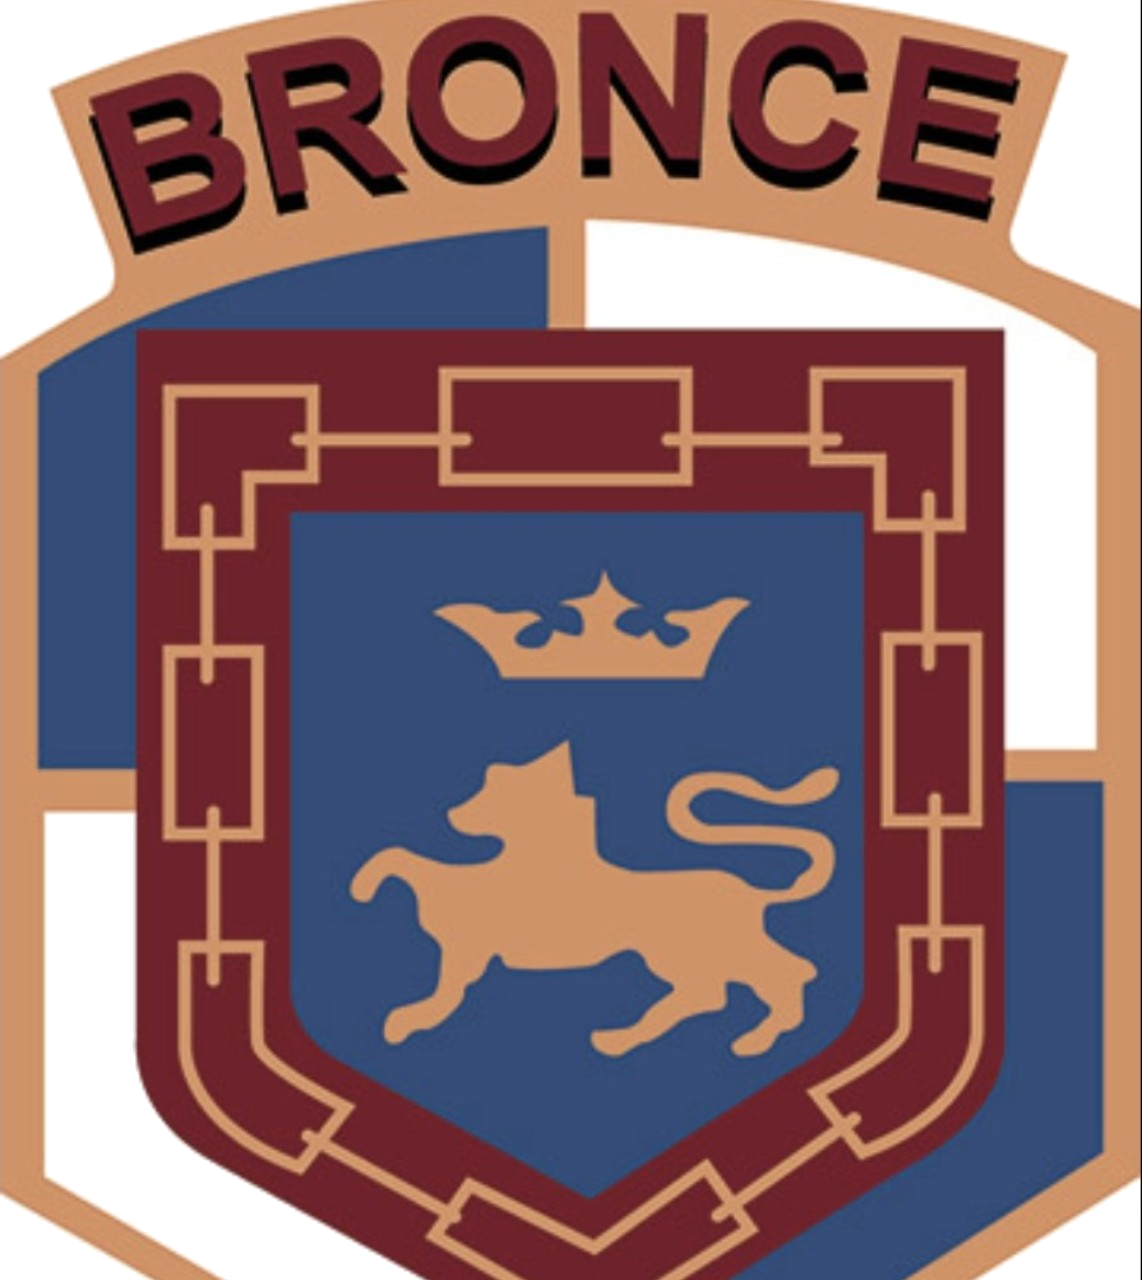
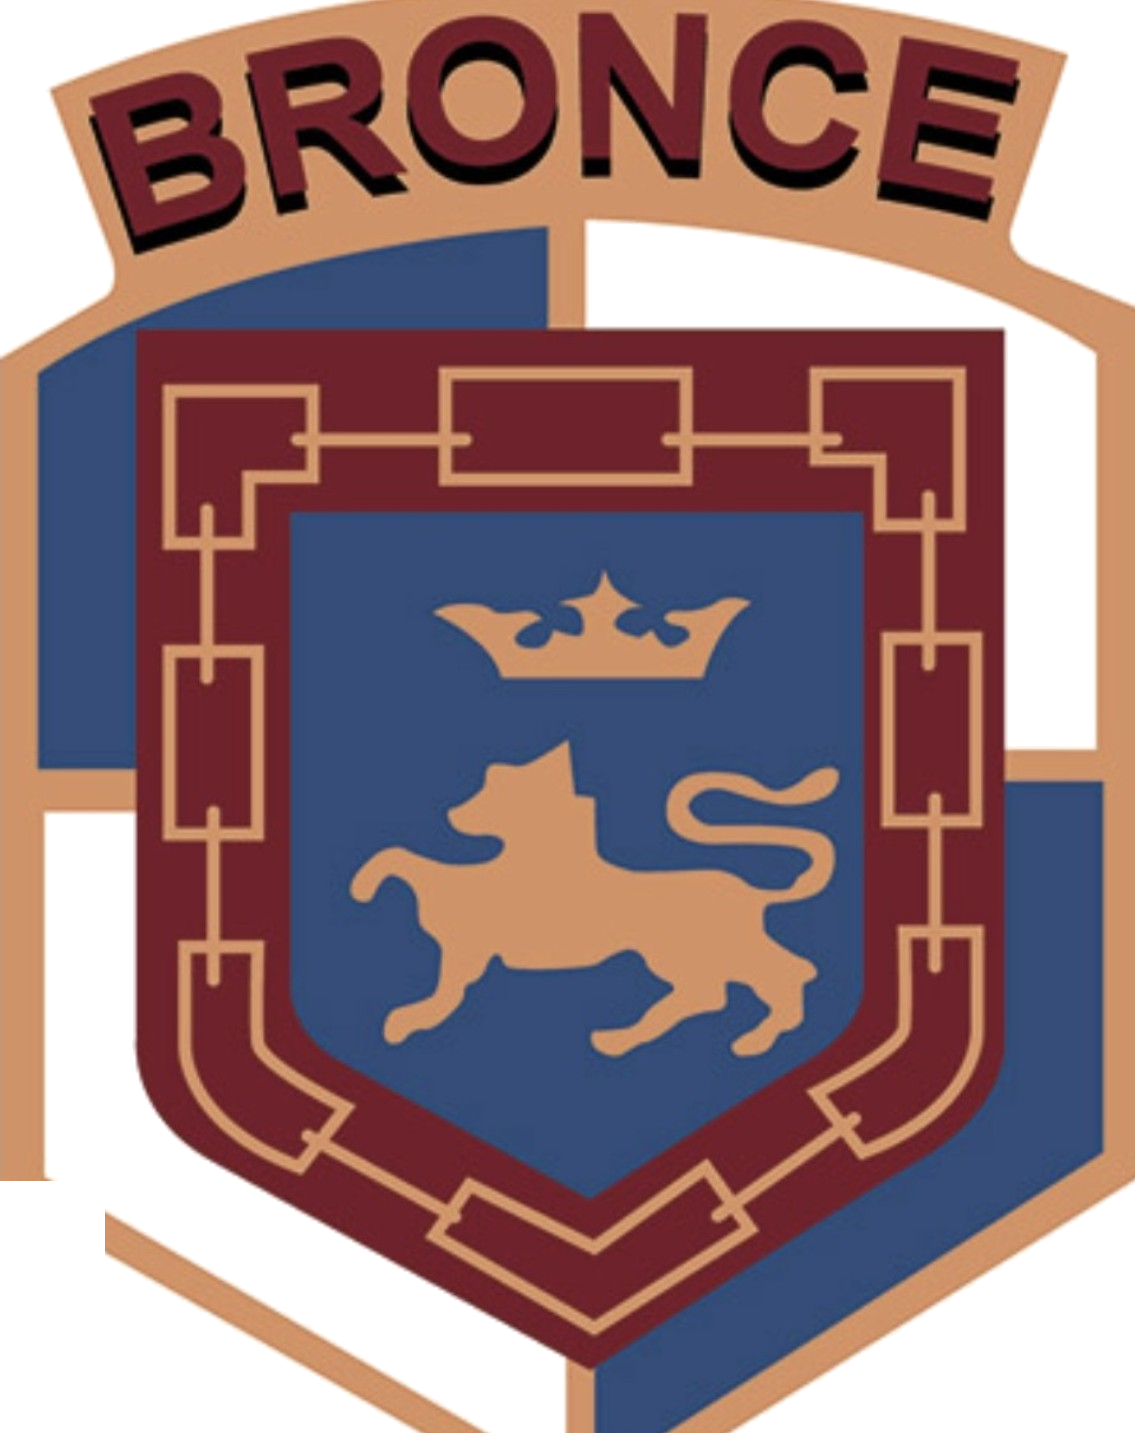
Add files via upload

diff --git a/sw.js b/sw.js
@@ -1,10 +1,24 @@
-const CACHE='andanada12-v12-1-20260630';
-self.addEventListener('install',e=>{self.skipWaiting();e.waitUntil(caches.open(CACHE).then(c=>c.addAll(['./','./index.html','./manifest.json','./assets/emoticono.jpg','./assets/escudo-bronce-solo.png']).catch(()=>{})))});
-self.addEventListener('activate',e=>{e.waitUntil(caches.keys().then(keys=>Promise.all(keys.filter(k=>k!==CACHE).map(k=>caches.delete(k)))));self.clients.claim()});
-self.addEventListener('fetch',e=>{
-  const req=e.request;
-  if(req.method!=='GET')return;
-  const url=new URL(req.url);
-  if(url.hostname.includes('docs.google.com')){e.respondWith(fetch(req,{cache:'no-store'}).catch(()=>new Response('',{status:503})));return}
-  e.respondWith(fetch(req,{cache:'no-store'}).then(res=>{const copy=res.clone();caches.open(CACHE).then(c=>c.put(req,copy));return res}).catch(()=>caches.match(req).then(r=>r||caches.match('./index.html'))));
+const CACHE_NAME = 'andanada12-v14';
+const ASSETS = [
+  './', './index.html', './manifest.json',
+  './assets/icon-192.png', './assets/icon-512.png',
+  './assets/icon-maskable-192.png', './assets/icon-maskable-512.png',
+  './assets/favicon-32.png', './assets/favicon-16.png', './assets/apple-touch-icon.png',
+  './assets/escudo-bronce-fiel.png', './assets/emoticono.jpg', './assets/emoticono.png'
+];
+self.addEventListener('install', event => {
+  self.skipWaiting();
+  event.waitUntil(caches.open(CACHE_NAME).then(cache => cache.addAll(ASSETS).catch(()=>{})));
+});
+self.addEventListener('activate', event => {
+  event.waitUntil(caches.keys().then(keys => Promise.all(keys.filter(k => k !== CACHE_NAME).map(k => caches.delete(k)))).then(() => self.clients.claim()));
+});
+self.addEventListener('fetch', event => {
+  const req = event.request;
+  if (req.method !== 'GET') return;
+  if (req.mode === 'navigate' || (req.headers.get('accept') || '').includes('text/html')) {
+    event.respondWith(fetch(req).then(res => { const copy=res.clone(); caches.open(CACHE_NAME).then(c=>c.put(req,copy)); return res; }).catch(()=>caches.match(req).then(r=>r || caches.match('./index.html'))));
+    return;
+  }
+  event.respondWith(caches.match(req).then(cached => cached || fetch(req).then(res => { const copy=res.clone(); caches.open(CACHE_NAME).then(c=>c.put(req,copy)); return res; }).catch(()=>cached)));
 });

diff --git a/index.html b/index.html
@@ -3,9 +3,12 @@
 <head>
 <meta charset="utf-8" />
 <meta name="viewport" content="width=device-width, initial-scale=1, viewport-fit=cover" />
-<title>Andanada 12 · V13.3</title>
+<title>Andanada 12 · V14</title>
 <meta name="theme-color" content="#0b4ea2" />
 <link rel="manifest" href="manifest.json" />
+<link rel="icon" type="image/png" sizes="32x32" href="assets/favicon-32.png" />
+<link rel="icon" type="image/png" sizes="16x16" href="assets/favicon-16.png" />
+<link rel="apple-touch-icon" href="assets/apple-touch-icon.png" />
 <style>
 :root{
   --red:#d71920;--redDark:#b71218;--blue:#0b4ea2;--blueDark:#08366f;--ink:#101828;--muted:#667085;--bg:#f6f8fc;--card:#fff;--line:#e5e7ef;--amber:#ffb703;--green:#12b76a;--shadow:0 12px 34px rgba(16,24,40,.10)
@@ -25,7 +28,7 @@
   <div class="checks"></div>
   <div class="header">
     <div class="brandMark"><img class="smileImg" src="assets/emoticono.jpg" alt="Homenaje" /></div>
-    <div class="title"><h1>ANDANADA 12</h1><p>San Fermín · <span class="v">V13.3</span></p><div class="motto">Quiera el cielo que todos vivamos divirtiéndonos como marranos, pero por muchísimo tiempo, como una gran pandilla de hermanos</div></div>
+    <div class="title"><h1>ANDANADA 12</h1><p>San Fermín · <span class="v">V14</span></p><div class="motto">Quiera el cielo que todos vivamos divirtiéndonos como marranos, pero por muchísimo tiempo, como una gran pandilla de hermanos</div></div>
     <div class="headerActions"><img class="crestImg" src="assets/escudo-bronce-fiel.png" alt="Escudo Bronce" /><button class="refresh" id="refreshBtn">Actualizar</button></div>
   </div>
   <div class="searchRow"><input id="search" class="search" placeholder="Buscar evento, aviso, comida..." /><div class="stamp" id="stamp">Sin actualizar</div></div>
@@ -114,7 +117,7 @@ function fotosView(){const rows=photoRows();return `<h2 class="section-title">Fo
 function ultimaHoraView(){const rows=urgentRows();return `<h2 class="section-title">🚨 Última Hora</h2>${rows.length?rows.map(r=>card(r)).join(''):'<div class="empty">Para activar un mensaje urgente, añade una fila con categoría ULTIMA HORA.</div>'}`}
 function momenticosView(){const rows=momentRows();return `<h2 class="section-title">✨ Momenticos</h2>${rows.length?rows.map(r=>card(r,'moment')).join(''):'<div class="empty">Categoría: MOMENTICO.</div>'}`}
 function utilidadesView(){const util=[['🍻','Dónde está la Peña','PENA'],['🚌','Villavesas','VILLAVESA'],['🚕','Taxis Pamplona','TAXI'],['🅿️','Parkings','PARKING'],['🚑','Emergencias','EMERGENCIA']];return `<h2 class="section-title">Utilidades</h2>${cuadrillaButton()}<div class="grid"><button class="quick" onclick="abrirMiUbicacion()"><span>📡</span>Mi ubicación ahora</button>${util.map(([ic,txt,key])=>{const r=data.find(x=>norm(cat(x)+' '+title(x)).includes(norm(key)));const url=r&&mapsUrl(r);return url?`<button class="quick" onclick="openMapUrl('${encodeURIComponent(cleanUrl(url))}')"><span>${ic}</span>${txt}</button>`:`<button class="quick" onclick="alert('Añade una fila de categoría ${key} con ENLACE o UBICACION')"><span>${ic}</span>${txt}</button>`}).join('')}</div><div class="card"><p class="desc"><b>¿Dónde está la cuadrilla?</b> se lee desde la hoja <b>CUADRILLA</b>: ACTIVO | LUGAR | MAPS | ACTUALIZADO POR | HORA.</p></div>`}
-function datosView(){return `<h2 class="section-title">Datos</h2><div class="card"><p class="desc"><b>Filas cargadas:</b> ${data.length}<br><b>Ubicación cuadrilla:</b> ${cuadrillaStatus}${cuadrilla.length?' · '+cuadrilla.length+' fila(s)':''}<br><b>Última actualización:</b> ${lastUpdate?lastUpdate.toLocaleTimeString('es-ES',{hour:'2-digit',minute:'2-digit'}):'No actualizada'}<br><b>Hoja:</b> Google Sheets · Andanada 12</p><button class="miniBtn" onclick="loadData(true)">Actualizar datos</button></div><h2 class="section-title">Configuración V13.3</h2><div class="card"><p class="desc"><b>ULTIMA HORA</b> · aparece como banner rojo arriba aunque no entres en la pestaña.<br><b>CUADRILLA</b> · hoja nueva para el botón ¿Dónde está la cuadrilla?.<br><b>MOMENTICO</b> · aparece en Momenticos.<br><b>UBICACION / LUGAR</b> · ahora activa botón de Google Maps aunque escribas una dirección o nombre de sitio.</p></div><pre class="debug">Columnas Hoja1:\nDIA | CATEGORIA | HORA | TITULO | SUBTITULO | INFORMACION (columna F) | DESCRIPCION | UBICACION | ENLACE | IMAGEN\n\nHoja CUADRILLA:\nACTIVO | LUGAR | MAPS | ACTUALIZADO POR | HORA</pre>`}
+function datosView(){return `<h2 class="section-title">Datos</h2><div class="card"><p class="desc"><b>Filas cargadas:</b> ${data.length}<br><b>Ubicación cuadrilla:</b> ${cuadrillaStatus}${cuadrilla.length?' · '+cuadrilla.length+' fila(s)':''}<br><b>Última actualización:</b> ${lastUpdate?lastUpdate.toLocaleTimeString('es-ES',{hour:'2-digit',minute:'2-digit'}):'No actualizada'}<br><b>Hoja:</b> Google Sheets · Andanada 12</p><button class="miniBtn" onclick="loadData(true)">Actualizar datos</button></div><h2 class="section-title">Configuración V14</h2><div class="card"><p class="desc"><b>ULTIMA HORA</b> · aparece como banner rojo arriba aunque no entres en la pestaña.<br><b>CUADRILLA</b> · hoja nueva para el botón ¿Dónde está la cuadrilla?.<br><b>MOMENTICO</b> · aparece en Momenticos.<br><b>UBICACION / LUGAR</b> · ahora activa botón de Google Maps aunque escribas una dirección o nombre de sitio.</p></div><pre class="debug">Columnas Hoja1:\nDIA | CATEGORIA | HORA | TITULO | SUBTITULO | INFORMACION (columna F) | DESCRIPCION | UBICACION | ENLACE | IMAGEN\n\nHoja CUADRILLA:\nACTIVO | LUGAR | MAPS | ACTUALIZADO POR | HORA</pre>`}
 function render(){applySearch();renderTabs();let html='';if(active==='Inicio')html=homeView();if(active==='Calendario')html=`<h2 class="section-title">Calendario</h2>`+calendarView();if(active==='Avisos')html=avisosView();if(active==='Fotos')html=fotosView();if(active==='Última Hora')html=ultimaHoraView();if(active==='Momenticos')html=momenticosView();if(active==='Utilidades')html=utilidadesView();if(active==='Datos')html=datosView();$('view').innerHTML=(active==='Última Hora'?'':globalUrgentBanner())+html}
 async function fetchCsvRows(url,force){const res=await fetch(withBust(url,force),{cache:'no-store'});if(!res.ok)throw new Error('HTTP '+res.status);const txt=await res.text();if(/^\s*</.test(txt))throw new Error('HTML/no público');return rowsToObjects(parseCSV(txt))}
 async function fetchJsonRows(url,force){const res=await fetch(withBust(url,force),{cache:'no-store'});if(!res.ok)throw new Error('HTTP '+res.status);const rows=await res.json();return Array.isArray(rows)?rows:[]}